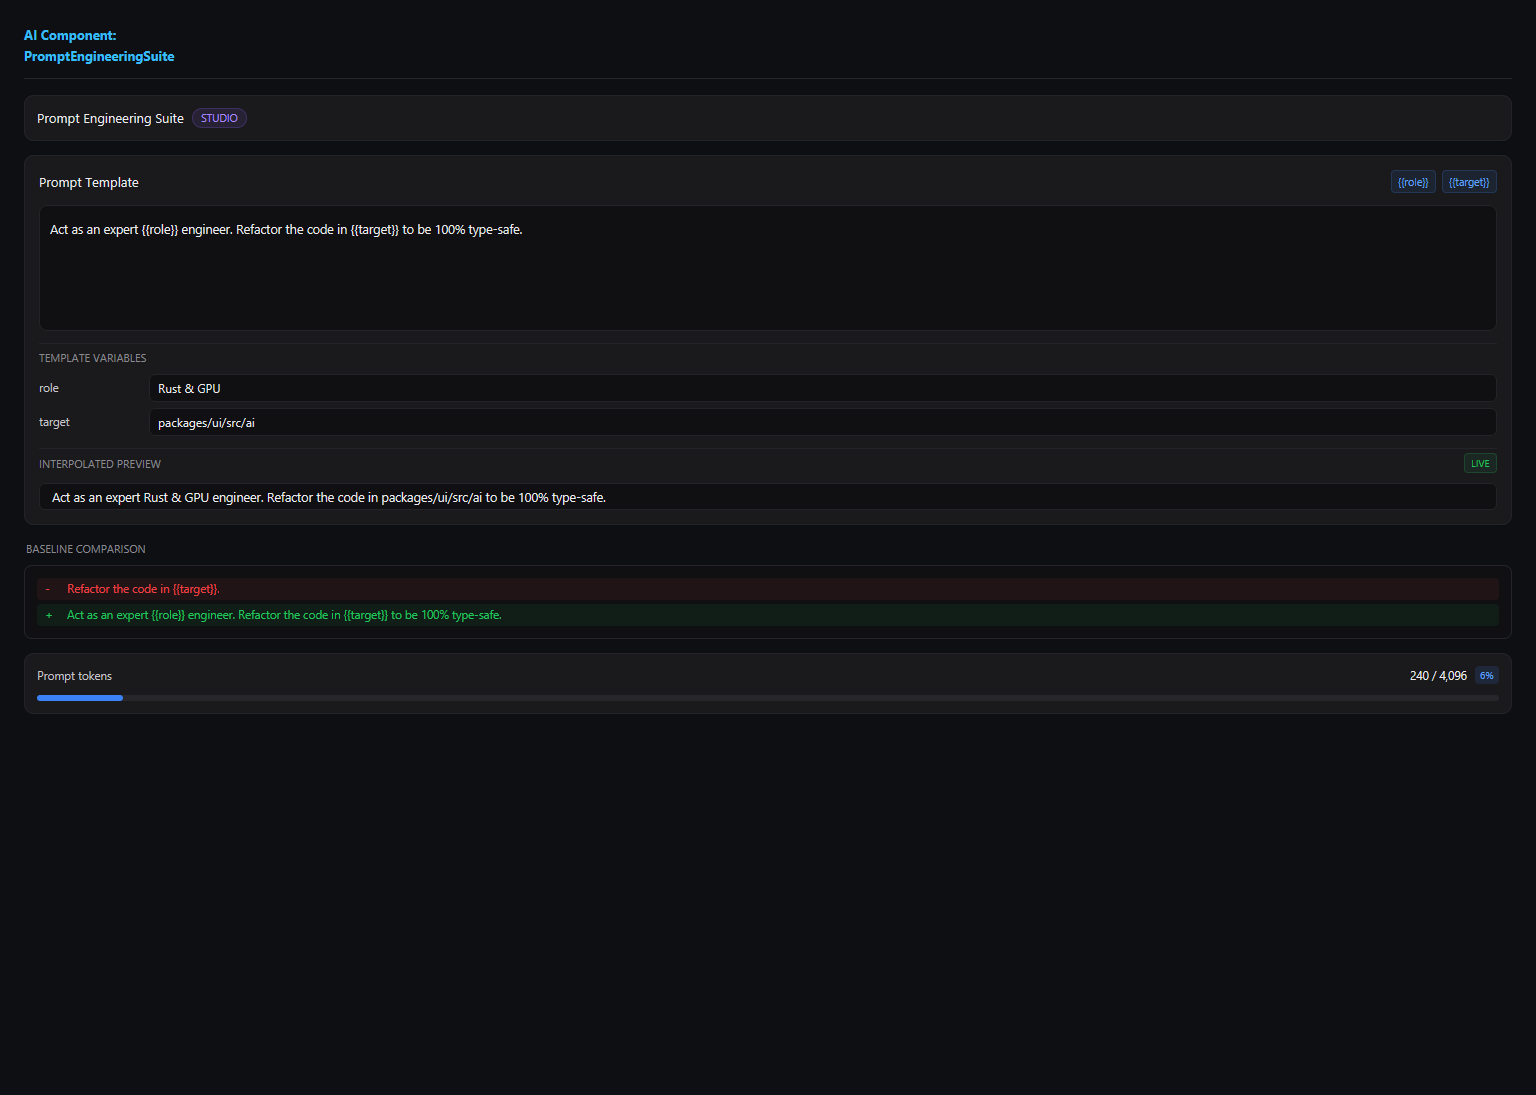
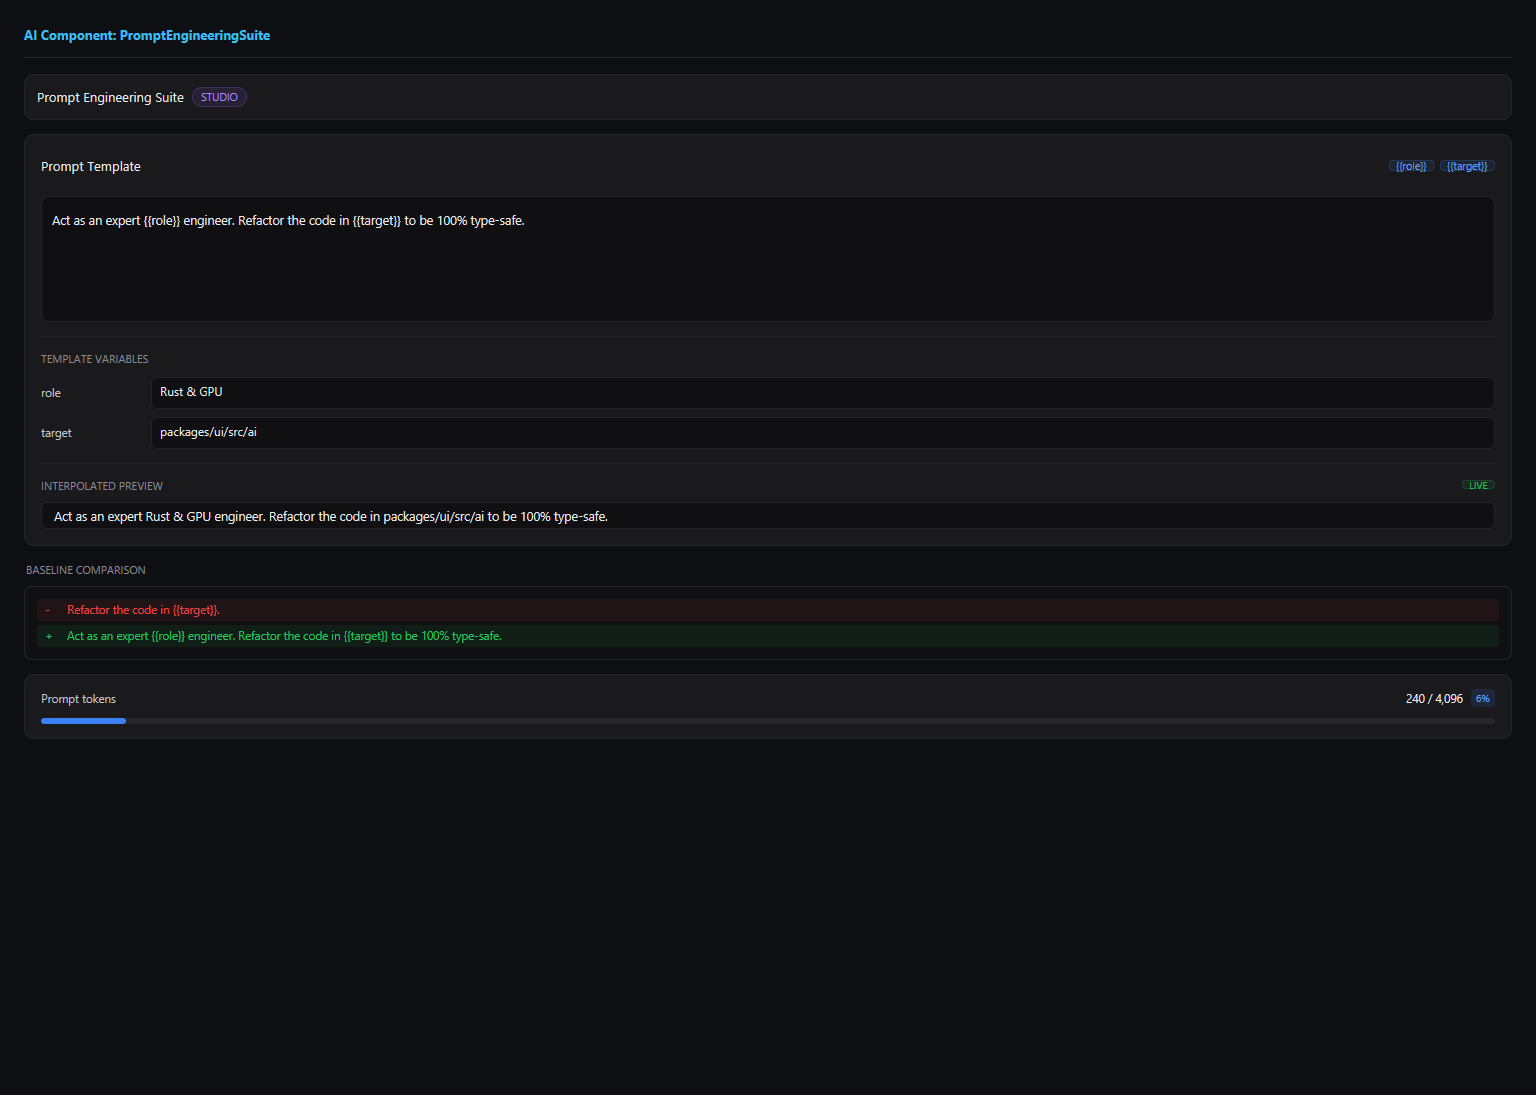
fix(ai): add vertical padding to PromptEngineeringSuite tokens card

diff --git a/packages/ui/src/ai/TokenMeter.tsx b/packages/ui/src/ai/TokenMeter.tsx
@@ -22,8 +22,8 @@ export function TokenMeter({ used = 0, limit = 100, label = 'tokens', color = '#
   const pct = Math.max(0, Math.min(100, (safeUsed / (safeLimit || 1)) * 100))
 
   return (
-    <div style={{ display: 'flex', flexDirection: 'column', gap: 10, width: '100%' }}>
-      <div style={{ display: 'flex', flexDirection: 'row', justifyContent: 'space-between', alignItems: 'center', width: '100%' }}>
+    <div style={{ display: 'flex', flexDirection: 'column', width: '100%' }}>
+      <div style={{ display: 'flex', flexDirection: 'row', justifyContent: 'space-between', alignItems: 'center', width: '100%', marginBottom: 10 }}>
         <text style={{ fontSize: 11.5, color: text.secondary, fontFamily: FONT, whiteSpace: 'nowrap' }}>{label}</text>
         <div style={{ display: 'flex', flexDirection: 'row', alignItems: 'center', gap: 8 }}>
           <text style={{ fontSize: 11.5, color: text.primary, fontFamily: FONT, whiteSpace: 'nowrap' }}>

diff --git a/scripts/capture-all-ai-screenshots.tsx b/scripts/capture-all-ai-screenshots.tsx
@@ -475,6 +475,10 @@ const sampleProps: Record<string, any> = {
   }
 }
 
+const viewportHeights: Record<string, number> = {
+  PromptEngineeringSuite: 900,
+}
+
 const componentNames = Object.keys(AI).filter(k => !k.endsWith('Props') && typeof (AI as any)[k] === 'function')
 console.log(`Rendering and capturing screenshots for all ${componentNames.length} AI components...`)
 
@@ -484,7 +488,8 @@ let failCount = 0
 for (const name of componentNames) {
   const Comp = (AI as any)[name]
   const props = sampleProps[name] || {}
-  const { render: testRender, renderer: testRenderer } = createTestRoot({ width: 900, height: 600 })
+  const height = viewportHeights[name] ?? 600
+  const { render: testRender, renderer: testRenderer } = createTestRoot({ width: 900, height })
   
   try {
     testRender(

diff --git a/packages/ui/src/ai/PromptEngineeringSuite.tsx b/packages/ui/src/ai/PromptEngineeringSuite.tsx
@@ -41,7 +41,7 @@ export function PromptEngineeringSuite({ template, onTemplateChange, values, onV
       ) : null}
 
       {tokenLimit !== undefined ? (
-        <div style={{ padding: 12, borderRadius: 10, borderWidth: 1, borderColor: border.subtle, backgroundColor: surface.card }}>
+        <div style={{ display: 'flex', flexDirection: 'column', flexGrow: 0, flexShrink: 0, paddingLeft: 16, paddingRight: 16, paddingTop: 14, paddingBottom: 14, borderRadius: 10, borderWidth: 1, borderColor: border.subtle, backgroundColor: surface.card, width: '100%' }}>
           <TokenMeter used={tokenUsed ?? 0} limit={tokenLimit} label="Prompt tokens" />
         </div>
       ) : null}
